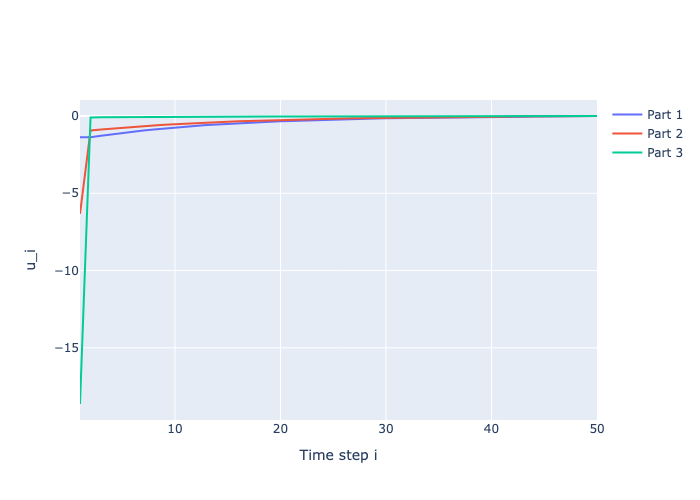
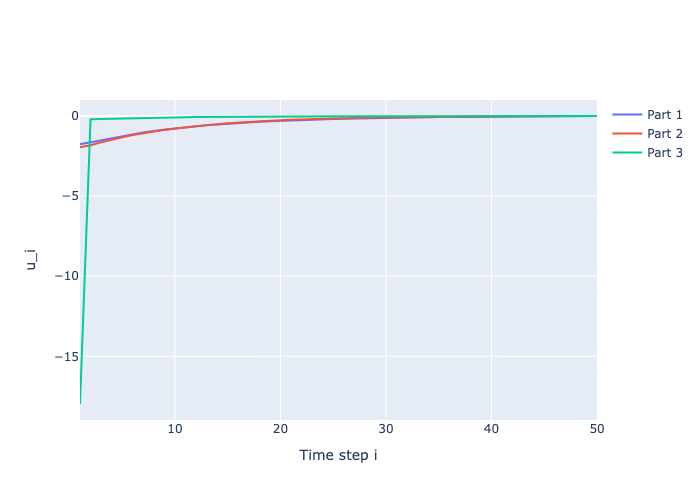
Update tasks 2c, 2d and related plots

diff --git a/task_2d.py b/task_2d.py
@@ -38,21 +38,22 @@ x_plot = go.Figure()
 y_plot = go.Figure()
 u_plot = go.Figure()
 v_plot = go.Figure()
+uv_plot = go.Figure()
 for i in range(len(params)):
     e = params[i][0]
     gamma2 = params[i][1]
     gamma1 = params[i][2]
 
     M = (A.T @ A + B.T @ B + gamma2 * D.T @ D)
-    L = 2 * norm(M + gamma1 * D.T @ D, ord=2)
+    L = 2 * norm(M, ord=2) + gamma1 * N
     t = 1 / L
 
     w = np.zeros(2 * N)
     cnt = 0
 
-    while (norm(grad_f(M, b, w, D, e)) > tolerance):
+    while (norm(grad_f(M, b, w, D, e, gamma1)) > tolerance):
         cnt += 1
-        w = w - t * grad_f(M, b, w, D, e)
+        w = w - t * grad_f(M, b, w, D, e, gamma1)
 
     x = A @ w + c_
     y = B @ w + d_
@@ -64,6 +65,7 @@ for i in range(len(params)):
     y_plot.add_trace(go.Scatter(x=[i for i in range(N + 1)], y=y, name = "Part "f"{i + 1}"))
     u_plot.add_trace(go.Scatter(x=[i + 1 for i in range(N)], y=u, name = "Part "f"{i + 1}"))
     v_plot.add_trace(go.Scatter(x=[i + 1 for i in range(N)], y=v, name = "Part "f"{i + 1}"))
+    uv_plot.add_trace(go.Scatter(x=[i + 1 for i in range(N)], y=abs(u - v), name = "Part "f"{i + 1}"))
 x_plot.update_layout(
     xaxis_title="Time step i",
     yaxis_title="x_i"
@@ -80,10 +82,15 @@ v_plot.update_layout(
     xaxis_title="Time step i",
     yaxis_title="v_i"
 )
+uv_plot.update_layout(
+    xaxis_title="Time step i",
+    yaxis_title="|u_i - v_i|"
+)
 x_plot.write_image("images/2d - x_plot.png")
 y_plot.write_image("images/2d - y_plot.png")
 u_plot.write_image("images/2d - u_plot.png")
 v_plot.write_image("images/2d - v_plot.png")
+uv_plot.write_image("images/2d - u_v_diff_plot.png")
 
 L_e_plot = go.Figure()
 t = np.linspace(-2, 2, 1000)

diff --git a/task_2c.py b/task_2c.py
@@ -5,18 +5,16 @@ import plotly.express as px
 import plotly.graph_objects as go
 from functions import get_plot, J_1, J_2
 
-N = 5
+N = 50
 a = 1
 b = 0.05
 x0 = 1
 c = 0.2
 d = -0.5
 y0 = 1
-c_ = np.array([x0 * a ** i for i in range(N + 1)] + [0] * (N + 1)).T
-d_ = np.array([0] * (N + 1) + [y0 * c ** i for i in range(N + 1)]).T
+c_ = np.array([x0 * a ** i for i in range(N + 1)] + [y0 * c ** i for i in range(N + 1)]).T
 A = np.array([np.array([0.0] * (2 * N)) for i in range(2 * N + 2)])
-B = np.array([np.array([0.0] * (2 * N)) for i in range(2 * N + 2)])
-D = np.array([np.array([0.0] * (2 * N)) for i in range(N)])
+D = np.array([np.array([0.0] * (2 * N)) for i in range(2 * N)])
 A = A.astype(np.float64)
 for i in range(N):
     D[i][i] = 1
@@ -24,7 +22,7 @@ for i in range(N):
     for j in range(N):
         if i >= j:
             A[i + 1][j] = a ** (i - j) * b
-            B[N + 1 + i + 1, N + j] = c ** (i - j) * d
+            A[N + 1 + i + 1][N + j] = c ** (i - j) * d
 J1 = []
 J2 = []
 gammas = []
@@ -32,14 +30,15 @@ gammas = []
 for power in np.arange(-5.0, 5.1, 0.1):
     gamma = 10 ** power
     gammas.append(power)
-    M = (A.T @ A + B.T @ B + gamma * D.T @ D)
-    optimal_uv = -(np.linalg.inv(M)) @ (c_.T @ A + d_.T @ B).T
+    M = (A.T @ A + gamma * D.T @ D)
+    optimal_uv = -(np.linalg.inv(M)) @ A.T @ c_
     x = A @ optimal_uv + c_
-    y = B @ optimal_uv + d_
+    y = A @ optimal_uv + c_
     x = x[:N + 1]
     y = y[N + 1:]
     u = optimal_uv[:N]
     v = optimal_uv[N:]
+    print(np.linalg.norm(x) ** 2, np.linalg.norm(y) ** 2)
     J1.append(J_1(x, y))
     J2.append(J_2(u, v))
 

diff --git a/functions.py b/functions.py
@@ -13,10 +13,10 @@ def grad_phi(x, n):
     return np.array([0] + [(i + 1) * x ** i for i in range(n - 1)])
 
 def J_1(x, y):
-    return np.linalg.norm(x) ** 2 + np.linalg.norm(y) ** 2
+    return np.linalg.norm(x, ord = 2) ** 2 + np.linalg.norm(y, ord = 2) ** 2
 
 def J_2(u, v):
-    return np.linalg.norm(u - v) ** 2
+    return np.linalg.norm(u - v, ord = 2) ** 2
 
 def L_e(u, e):
     if abs(u) <= e:
@@ -42,8 +42,8 @@ def norm1(u, e):
 def f(x, y, u, v, gamma1, gamma2, e):
     return norm(x) ** 2 + norm(y) ** 2 + gamma2 * norm(u - v) ** 2 + gamma1 * norm1(u - v)
 
-def grad_f(A, b, w, D, e):
-    return 2 * A @ w + b + grad_L_e(D @ w, e)
+def grad_f(A, b, w, D, e, gamma1):
+    return 2 * A @ w + b + gamma1 * D.T @ grad_L_e(D @ w, e)
 
 def get_plot(x, y, title, xaxis, yaxis):
     fig = go.Figure(data=go.Scatter(x=x, y=y, mode='lines+markers'))

diff --git a/task_1b.py b/task_1b.py
@@ -17,7 +17,7 @@ validation_x = validation_df["x"]
 validation_y = validation_df["y"]
 m = len(validation_x)
 
-N = 20
+N = 40
 MSE = [0] * N
 log_MSE = [0] * N
 # create a vector of values that we want to get (vector b)
